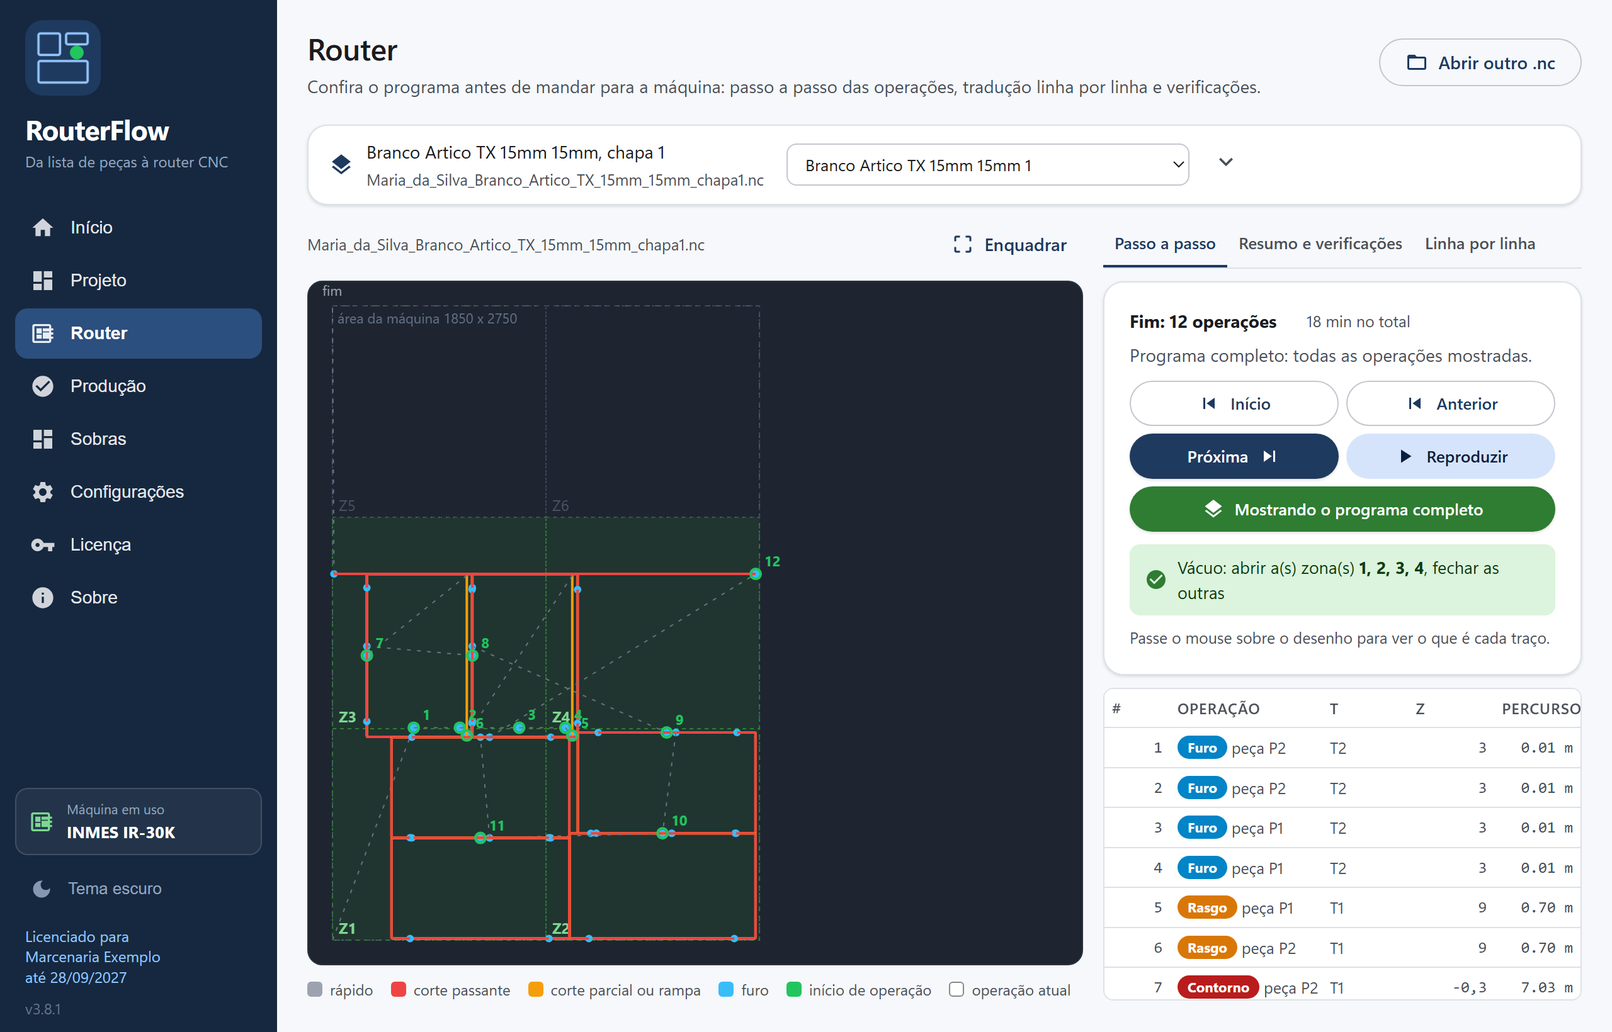
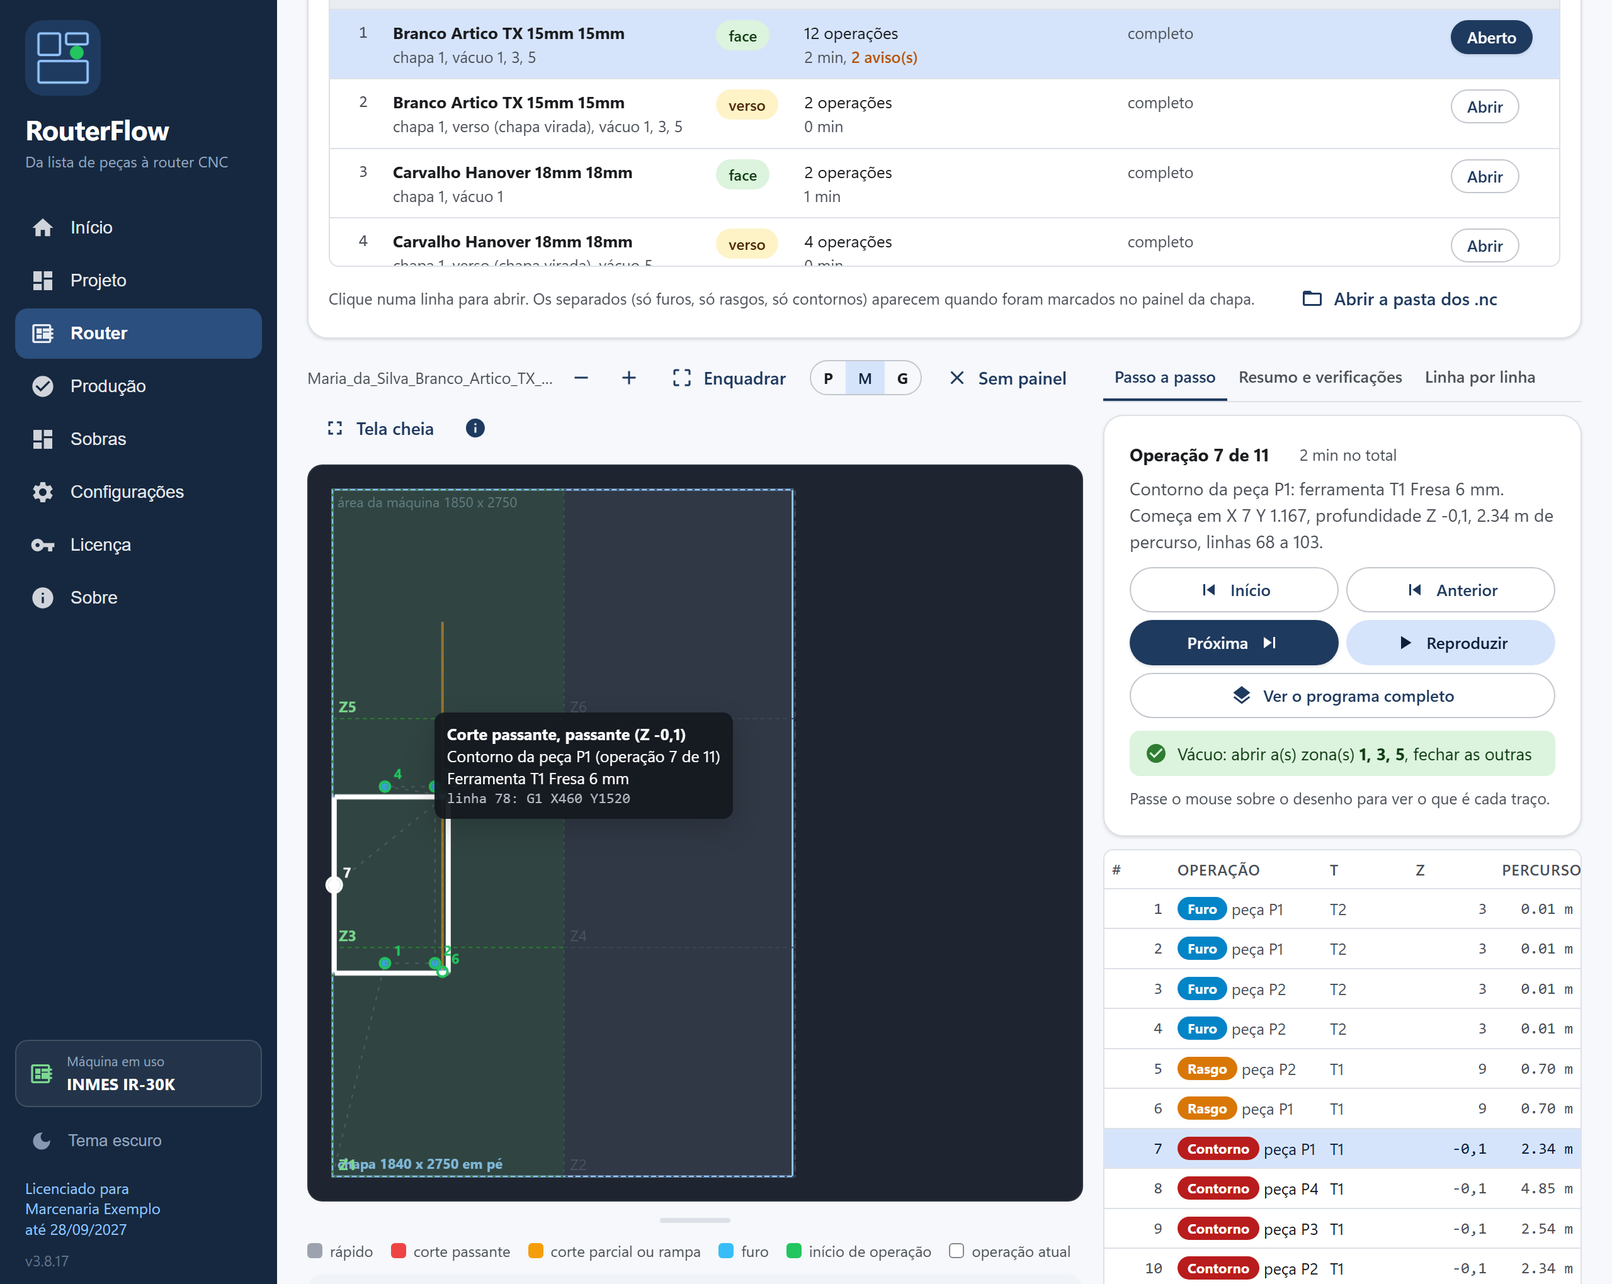
Site: novidades 3.8.18, manual com envio pela rede, imagens da Router e do Projeto refeitas

diff --git a/manual.html b/manual.html
@@ -63,7 +63,7 @@ code { background: var(--surface-low); padding: 1px 6px; border-radius: 6px; fon
   <article class="man-body">
   <div class="man-here" id="man-here"><a href="#man-toc" style="color:inherit;text-decoration:none">Você está em: <b id="man-here-t"></b></a></div>
 <h1 id="manual-do-routerflow-uso-e-configuração">Manual do RouterFlow: uso e configuração</h1>
-<p>Este manual mostra, tela por tela, como usar o RouterFlow desde a instalação até a chapa cortada, e explica cada campo das configurações: o que ele faz, quando mexer e qual valor usar. Ele vale para a versão 3.8.17 em diante.</p>
+<p>Este manual mostra, tela por tela, como usar o RouterFlow desde a instalação até a chapa cortada, e explica cada campo das configurações: o que ele faz, quando mexer e qual valor usar. Ele vale para a versão 3.8.18 em diante.</p>
 <p>O caminho no programa é sempre o mesmo, e o menu da esquerda segue essa ordem: <b>Projeto</b> (escolher os CSV e gerar as chapas), <b>Router</b> (conferir o programa antes de cortar), <b>Produção</b> (cortar chapa a chapa) e <b>Sobras</b> (o que ficou e volta para o estoque). Antes do primeiro projeto, vale gastar dez minutos em <b>Configurações</b> para o programa sair do jeito da sua máquina.</p>
 <p>Em cada tela, o botão da próxima etapa aparece maior, com a marca "PRÓXIMO PASSO" e a borda pulsando. Se estiver em dúvida sobre o que fazer, procure esse botão.</p>
 <h2 id="instalar-e-ativar">Instalar e ativar</h2>
@@ -153,7 +153,11 @@ code { background: var(--surface-low); padding: 1px 6px; border-radius: 6px; fon
 </ul>
 <h3 id="sua-router-mesa-vácuo-e-códigos-m">Sua router: mesa, vácuo e códigos M</h3>
 <figure class="shot"><img class="zoom" src="img/manual/config-maquina.png" alt="Tópico Sua router: área útil, velocidade dos rápidos, Z zero, zonas de vácuo e códigos M" loading="lazy"><figcaption>Tópico Sua router: área útil, velocidade dos rápidos, Z zero, zonas de vácuo e códigos M</figcaption></figure>
-<div class='tbl'><table class='man'><thead><tr><th>Campo</th><th>O que é</th><th>Como preencher</th></tr></thead><tbody><tr><td><b>Área útil X e Y (mm)</b></td><td>O tanto que a fresa alcança na mesa, em X e em Y</td><td>Meça ou pegue no manual da máquina. Exemplo Inmes IR-30K: 1850 no X e 2750 no Y. É isso que decide se a chapa entra em pé ou deitada, e a Router avisa em vermelho o que passa da mesa</td></tr><tr><td><b>Velocidade dos rápidos (mm/min)</b></td><td>Só para estimar o tempo dos movimentos G0</td><td>20000 é comum</td></tr><tr><td><b>Z zero na mesa de sacrifício</b></td><td>O mesmo Z zero do tópico Corte, visto daqui</td><td>Marque se o operador zera na mesa</td></tr><tr><td><b>Zonas ao longo do X e do Y</b></td><td>Quantos registros de vácuo a mesa tem em cada sentido</td><td>Mesa com 6 zonas em 2 colunas e 3 linhas: X 2, Y 3. Sem zonas: 0 e 0</td></tr><tr><td><b>Como a máquina numera</b></td><td>Se a zona 2 é a próxima no X ou no Y</td><td>Confira nos registros da mesa</td></tr><tr><td><b>Códigos M</b></td><td>Códigos próprios da máquina: ligar vácuo, exaustor, refrigeração</td><td>"Adicionar código", escreva o código (M8, por exemplo), o que ele faz e quando entra: início, fim ou troca</td></tr></tbody></table></div>
+<div class='tbl'><table class='man'><thead><tr><th>Campo</th><th>O que é</th><th>Como preencher</th></tr></thead><tbody><tr><td><b>Área útil X e Y (mm)</b></td><td>O tanto que a fresa alcança na mesa, em X e em Y</td><td>Meça ou pegue no manual da máquina. Exemplo Inmes IR-30K: 1850 no X e 2750 no Y. É isso que decide se a chapa entra em pé ou deitada, e a Router avisa em vermelho o que passa da mesa</td></tr><tr><td><b>Velocidade dos rápidos (mm/min)</b></td><td>Só para estimar o tempo dos movimentos G0</td><td>20000 é comum</td></tr><tr><td><b>Z zero na mesa de sacrifício</b></td><td>O mesmo Z zero do tópico Corte, visto daqui</td><td>Marque se o operador zera na mesa</td></tr><tr><td><b>Zonas ao longo do X e do Y</b></td><td>Quantos registros de vácuo a mesa tem em cada sentido</td><td>Mesa com 6 zonas em 2 colunas e 3 linhas: X 2, Y 3. Sem zonas: 0 e 0</td></tr><tr><td><b>Como a máquina numera</b></td><td>Se a zona 2 é a próxima no X ou no Y</td><td>Confira nos registros da mesa</td></tr><tr><td><b>Códigos M</b></td><td>Códigos próprios da máquina: ligar vácuo, exaustor, refrigeração</td><td>"Adicionar código", escreva o código (M8, por exemplo), o que ele faz e quando entra: início, fim ou troca</td></tr><tr><td><b>Envio dos programas</b></td><td>Como o .nc chega na router: pendrive, pasta de rede ou FTP</td><td>Veja abaixo</td></tr></tbody></table></div>
+<p><b>Envio dos programas para a máquina</b></p>
+<figure class="shot"><img class="zoom" src="img/manual/config-envio.png" alt="Envio dos programas: destino, pasta de rede e o botão Testar conexão" loading="lazy"><figcaption>Envio dos programas: destino, pasta de rede e o botão Testar conexão</figcaption></figure>
+<div class='tbl'><table class='man'><thead><tr><th>Destino</th><th>Quando usar</th><th>Como configurar</th></tr></thead><tbody><tr><td><b>Pendrive</b></td><td>A router não está na rede. É o padrão</td><td>Nada a configurar: a Produção pergunta a pasta na hora de copiar</td></tr><tr><td><b>Pasta de rede da máquina</b></td><td>A router tem um PC próprio (Mach3, NcStudio, controladores com Windows) ligado na mesma rede da oficina</td><td>No PC da router, compartilhe a pasta onde o controlador lê os programas (botão direito na pasta, Propriedades, Compartilhamento, com permissão de gravação). No RouterFlow, cole o caminho: \\NOME-DO-PC\programas, ou a letra da unidade mapeada. Clique em Testar conexão e Salvar</td></tr><tr><td><b>FTP do controlador</b></td><td>Controladores com servidor FTP: Syntec, Weihong, Fanuc com Ethernet e similares</td><td>IP do controlador, porta (21), usuário e senha do manual do controlador, a pasta onde os programas ficam. Testar conexão confere login e pasta. Modo passivo fica marcado</td></tr></tbody></table></div>
+<p>Com pasta de rede ou FTP configurados, a Produção envia direto: o botão de cada chapa vira "Enviar para a máquina" e o de cima, "Todos os .nc para a máquina". Cabo serial (DNC por RS-232) e envio para GRBL por USB ainda não existem; nesses casos, pendrive. O destino pertence à máquina em uso: cada perfil guarda o seu.</p>
 <p>Com as zonas cadastradas, a Router desenha a grade sobre a mesa e destaca as zonas que cada chapa usa ("abrir 1, 2 e 4, fechar as outras"), a Produção repete isso por chapa, e o programa .nc leva a lista num comentário.</p>
 <h3 id="chapas-e-folgas">Chapas e folgas</h3>
 <figure class="shot"><img class="zoom" src="img/manual/config-chapas.png" alt="Tópico Chapas e folgas: folga, margem, chapa padrão, sobra mínima, formato da etiqueta e chapa por material" loading="lazy"><figcaption>Tópico Chapas e folgas: folga, margem, chapa padrão, sobra mínima, formato da etiqueta e chapa por material</figcaption></figure>
@@ -210,14 +214,14 @@ code { background: var(--surface-low); padding: 1px 6px; border-radius: 6px; fon
 <div class='tbl'><table class='man'><thead><tr><th>Arquivo</th><th>O que é</th></tr></thead><tbody><tr><td>Cliente_Material.dxf</td><td>Todas as chapas do material num DXF só, layers CONTORNO, FURO_D5_P12, RASGO_L6_P6, TEXTO e CHAPA, na orientação e origem da mesa</td></tr><tr><td>Cliente_Material_VERSO.dxf</td><td>Usinagem da face de trás, espelhada, quando existe</td></tr><tr><td>Cliente_Material_chapa1.nc</td><td>Programa da router de cada chapa (e _VERSO.nc quando marcado)</td></tr><tr><td>etiquetas.html, mapa_chapas.html, ficha_producao.html</td><td>Impressos, abrem no navegador para imprimir com Ctrl+P</td></tr><tr><td>lista_pecas.csv, lista_fitagem.csv, ferragens.csv</td><td>Planilhas para Excel ou para o seu sistema</td></tr><tr><td>projeto.json</td><td>O projeto inteiro, para reabrir</td></tr><tr><td>relatorio.txt</td><td>Resumo em texto</td></tr></tbody></table></div>
 <h3 id="etapa-4-ajustar-no-editor-de-chapas">Etapa 4: ajustar no editor de chapas</h3>
 <figure class="shot"><img class="zoom" src="img/manual/editor.png" alt="Editor de chapas: cabeçalho com os impressos, abas por chapa, barra de zoom, o desenho e o painel de ações" loading="lazy"><figcaption>Editor de chapas: cabeçalho com os impressos, abas por chapa, barra de zoom, o desenho e o painel de ações</figcaption></figure>
-<p>No alto: o nome do projeto, quantas peças em quantas chapas, e o botão <b>Ir para a router</b> (próximo passo). Logo abaixo, <b>Etiquetas</b>, <b>Mapa das chapas</b>, <b>Ficha de produção</b> e <b>Pasta do projeto</b>. No fim do cartão ficam as sobras de cada chapa (quando marcadas) e os avisos do projeto.</p>
+<p>No alto: o nome do projeto, quantas peças em quantas chapas, e o botão <b>Ir para a router</b> (próximo passo): abre na Router o programa da chapa que está na tela; se você mexeu no encaixe ele regrava antes, e se os programas não foram gerados ele gera. Logo abaixo, <b>Etiquetas</b>, <b>Mapa das chapas</b>, <b>Ficha de produção</b> e <b>Pasta do projeto</b>. No fim do cartão ficam as sobras de cada chapa (quando marcadas) e os avisos do projeto.</p>
 <p>Uma aba por chapa, com material e número. A barra acima do desenho:</p>
 <ul>
 <li><b>- 100% +</b> zoom; <b>Ajustar</b> enquadra a chapa; <b>P, M, G</b> mudam a altura da área do desenho; <b>Tela cheia</b> usa o monitor inteiro (Esc volta); o botão <b>i</b> mostra ou esconde as dicas.</li>
 <li>Roda do mouse: zoom no ponto. Arraste o fundo: move a chapa. Duplo clique no fundo ou tecla 0: ajusta. A barra fina abaixo do desenho estica a área à vontade.</li>
 </ul>
 <p>O painel da direita:</p>
-<div class='tbl'><table class='man'><thead><tr><th>Grupo</th><th>Botão</th><th>O que faz</th></tr></thead><tbody><tr><td>Peça selecionada</td><td><b>Girar 90°</b></td><td>Gira a peça selecionada. Peça com veio avisa se o veio vai sair errado</td></tr><tr><td></td><td><b>Desfazer</b></td><td>Volta o último movimento</td></tr><tr><td></td><td><b>outra chapa</b> e <b>Mover</b></td><td>Leva a peça para a chapa escolhida na lista</td></tr><tr><td>Chapas</td><td><b>Nova chapa</b></td><td>Abre uma chapa vazia do mesmo material</td></tr><tr><td></td><td><b>Excluir chapa</b></td><td>Remove a chapa (só vazia)</td></tr><tr><td></td><td><b>Marcar área com defeito</b></td><td>Cria um retângulo vermelho (nó, lasca, borda batida); arraste até o lugar e ajuste o tamanho. Nenhuma peça entra ali</td></tr><tr><td></td><td><b>Afastar peças na folga</b></td><td>Empurra as peças mais perto que a folga até a folga certa, sem sair da chapa</td></tr><tr><td></td><td><b>Nesting automático</b></td><td>Refaz o encaixe de todas as chapas, desviando das áreas com defeito. Descarta as alterações à mão</td></tr><tr><td>Finalizar</td><td><b>Furos, Rasgos, Contornos</b></td><td>Marque para gerar, além do programa completo, um programa só com aquela operação</td></tr><tr><td></td><td><b>Aplicar e regravar</b></td><td>Regrava DXF, programas, mapa, etiquetas e ficha com as alterações. Fica como próximo passo quando você mexeu</td></tr><tr><td></td><td><b>Abrir .nc na Router</b></td><td>Regrava e já abre o programa desta chapa na Router</td></tr></tbody></table></div>
+<div class='tbl'><table class='man'><thead><tr><th>Grupo</th><th>Botão</th><th>O que faz</th></tr></thead><tbody><tr><td>Peça selecionada</td><td><b>Girar 90°</b></td><td>Gira a peça selecionada. Peça com veio avisa se o veio vai sair errado</td></tr><tr><td></td><td><b>Desfazer</b></td><td>Volta o último movimento</td></tr><tr><td></td><td><b>outra chapa</b> e <b>Mover</b></td><td>Leva a peça para a chapa escolhida na lista</td></tr><tr><td>Chapas</td><td><b>Nova chapa</b></td><td>Abre uma chapa vazia do mesmo material</td></tr><tr><td></td><td><b>Excluir chapa</b></td><td>Remove a chapa (só vazia)</td></tr><tr><td></td><td><b>Marcar área com defeito</b></td><td>Cria um retângulo vermelho (nó, lasca, borda batida); arraste até o lugar e ajuste o tamanho. Nenhuma peça entra ali</td></tr><tr><td></td><td><b>Afastar peças na folga</b></td><td>Empurra as peças mais perto que a folga até a folga certa, sem sair da chapa</td></tr><tr><td></td><td><b>Nesting automático</b></td><td>Refaz o encaixe de todas as chapas, desviando das áreas com defeito. Descarta as alterações à mão</td></tr><tr><td>Finalizar</td><td><b>Furos, Rasgos, Contornos</b></td><td>Marque para gerar, além do programa completo, um programa só com aquela operação</td></tr><tr><td></td><td><b>Aplicar e regravar</b></td><td>Regrava DXF, programas, mapa, etiquetas e ficha com as alterações. Fica como próximo passo quando você mexeu</td></tr></tbody></table></div>
 <p>Arrastar uma peça: clique nela e arraste. Ao soltar perto de outra, o encaixe mantém a folga sozinho. Peças sobrepostas ficam vermelhas e não deixam regravar; peças mais perto que a folga ficam laranja e são afastadas sozinhas ao regravar.</p>
 <p>Quando "Mostrar a sobra" está marcado, o maior retalho de cada chapa aparece tracejado em verde, com três escolhas no painel: <b>Cortar e guardar</b> (etiqueta e estoque), <b>Cortar e descartar</b> (só corta) ou <b>Deixar na chapa</b>.</p>
 <h3 id="histórico-e-avisos">Histórico e avisos</h3>
@@ -226,7 +230,7 @@ code { background: var(--surface-low); padding: 1px 6px; border-radius: 6px; fon
 <h2 id="router-conferir-o-programa-antes-de-cortar">Router: conferir o programa antes de cortar</h2>
 <figure class="shot"><img class="zoom" src="img/manual/router.png" alt="Router: lista de programas, desenho do percurso sobre a mesa com as zonas de vácuo, e o painel Passo a passo" loading="lazy"><figcaption>Router: lista de programas, desenho do percurso sobre a mesa com as zonas de vácuo, e o painel Passo a passo</figcaption></figure>
 <p>A Router abre sozinha no programa completo da primeira chapa quando você vem do projeto. <b>Abrir outro .nc</b> carrega qualquer programa, inclusive de outra origem (Aspire, por exemplo), para conferir. O botão <b>Ir para a Produção</b> é o próximo passo.</p>
-<p>A lista de programas mostra material, chapa, face (frente ou verso) e as zonas de vácuo. A seleção rápida troca de programa sem abrir a lista.</p>
+<p>A lista de programas vem aberta, com material, chapa, face (frente ou verso), operações e as zonas de vácuo: clique numa linha para abrir. A seta no canto recolhe a lista, e a seleção rápida no título troca de programa sem abrir.</p>
 <p>O desenho: a mesa com a área útil tracejada, a chapa como foi gerada (deitada ou em pé; vermelha se não cabe), a grade de vácuo com as zonas a abrir em verde, e o percurso colorido pela legenda: cinza rápido, vermelho corte passante, laranja rampa ou corte parcial, azul furo, verde início de operação, branco a operação atual. Passe o mouse sobre um traço para ver a linha do programa. <b>Enquadrar</b>, zoom, <b>P M G</b>, <b>Sem painel</b> e <b>Tela cheia</b> funcionam como no editor.</p>
 <p>O painel da direita tem três abas:</p>
 <ul>
@@ -247,6 +251,7 @@ code { background: var(--surface-low); padding: 1px 6px; border-radius: 6px; fon
 <ul>
 <li><b>Ver na Router</b> abre aquele programa para conferir.</li>
 <li><b>Pendrive</b> copia só aquele programa para o pendrive. <b>Todos os .nc para o pendrive</b> (no alto, próximo passo) copia todos.</li>
+<li><b>Envio pela rede</b>: se em Configurações, Sua router, o destino dos programas for uma pasta de rede ou o FTP do controlador, esses botões viram <b>Enviar para a máquina</b> e <b>Todos os .nc para a máquina</b>, e o programa vai direto, sem pendrive. Uma linha no alto diz para onde.</li>
 <li><b>Marcar feita</b> registra a chapa cortada; a barra de progresso e a data ficam gravadas com o projeto, então dá para fechar e continuar no dia seguinte.</li>
 <li><b>Tela grande</b> aumenta tudo para ler de longe.</li>
 </ul>

diff --git a/index.html b/index.html
@@ -223,7 +223,7 @@
     <div><h3>Atualização automática</h3><p>Cada versão nova é baixada e instalada pelo próprio programa. A licença é confirmada pela internet de vez em quando; na hora de cortar, não precisa de conexão.</p></div>
   </div>
   <div class="two">
-    <figure class="shot"><img class="zoom" src="img/app-router.png" alt="Tela Router do RouterFlow: percurso da fresa desenhado sobre a mesa, zonas de vácuo e lista de furos, rasgos e contornos" width="2560" height="1640" loading="lazy"><figcaption>Router: cada operação sobre a mesa, com as zonas de vácuo a abrir e a lista de furos, rasgos e contornos.</figcaption></figure>
+    <figure class="shot"><img class="zoom" src="img/app-router.png" alt="Tela Router do RouterFlow: percurso da fresa desenhado sobre a mesa, zonas de vácuo e lista de furos, rasgos e contornos" width="2560" height="2040" loading="lazy"><figcaption>Router: cada operação sobre a mesa, com as zonas de vácuo a abrir e a lista de furos, rasgos e contornos.</figcaption></figure>
     <figure class="shot"><img class="zoom" src="img/app-producao.png" alt="Tela Produção do RouterFlow: chapas na ordem de corte com o programa de cada uma, botão do pendrive e marcação de feita" width="2560" height="1640" loading="lazy"><figcaption>Produção: as chapas na ordem de corte, o programa de cada uma, pendrive e a marcação de feita.</figcaption></figure>
     <figure class="shot"><img class="zoom" src="img/app-sobras.png" alt="Tela Sobras do RouterFlow: estoque de retalhos por material com medidas, situação e origem" width="2560" height="1640" loading="lazy"><figcaption>Sobras: o estoque de retalhos, o que está disponível e o que já foi usado em projetos.</figcaption></figure>
     <figure class="shot"><img class="zoom" src="img/app-config.png" alt="Configurações do RouterFlow: máquina em uso, linha do tempo por onde começar e tópicos em acordeão" width="2560" height="1640" loading="lazy"><figcaption>Configurações: a máquina em uso, por onde começar e um tópico por vez.</figcaption></figure>
@@ -287,7 +287,8 @@
   <p class="sub">O que chegou em cada atualização, da mais nova para a mais antiga. Quem já tem o RouterFlow recebe tudo isso sozinho.</p>
   <div class="news-list">
     <!-- novidades:inicio -->
-    <details open><summary><b>Versão 3.8.17</b><span class="news-t">Produção com histórico: continue de onde parou</span><span class="news-d">29/09/2026</span></summary><ul><li>A tela Produção agora lista os projetos gerados neste computador com o andamento de cada um: quantas chapas já foram feitas e se está concluído, em andamento ou nem começou. &quot;Abrir na Produção&quot; carrega o projeto ali mesmo, sem passar pelo Projeto.</li><li>Na tela Projeto, o histórico passou a vir antes dos avisos.</li></ul></details>
+    <details open><summary><b>Versão 3.8.18</b><span class="news-t">Programa direto para a máquina pela rede</span><span class="news-d">29/09/2026</span></summary><ul><li>Em Configurações, Sua router, o novo bloco &quot;Envio dos programas para a máquina&quot;: além do pendrive, dá para mandar o .nc para uma pasta de rede do PC da router ou para o FTP do controlador (Syntec, Weihong, Fanuc com Ethernet). Tem botão Testar conexão. Na Produção, os botões viram &quot;Enviar para a máquina&quot;.</li><li>No Projeto ficou um botão só para a Router, no alto do resultado: ele regrava se você mexeu no encaixe, gera o .nc se faltar e abre a chapa que está na tela. O botão de baixo do painel saiu.</li><li>Na Router, a lista de programas do projeto vem aberta. A seta recolhe quando quiser mais espaço.</li></ul></details>
+    <details><summary><b>Versão 3.8.17</b><span class="news-t">Produção com histórico: continue de onde parou</span><span class="news-d">29/09/2026</span></summary><ul><li>A tela Produção agora lista os projetos gerados neste computador com o andamento de cada um: quantas chapas já foram feitas e se está concluído, em andamento ou nem começou. &quot;Abrir na Produção&quot; carrega o projeto ali mesmo, sem passar pelo Projeto.</li><li>Na tela Projeto, o histórico passou a vir antes dos avisos.</li></ul></details>
     <details><summary><b>Versão 3.8.16</b><span class="news-t">Tela Projeto mais limpa depois de gerar</span><span class="news-d">29/09/2026</span></summary><ul><li>Gerou as chapas? As etapas 1 e 2 se recolhem numa linha só: arquivos, máquina, orientação, origem e opções. Quer mudar algo? Clique em &quot;Editar e gerar de novo&quot; e tudo abre outra vez.</li><li>As listas de arquivos DXF e de programas .nc saíram do resultado. Uma linha diz quantos foram gravados e onde. Os programas continuam na Router (conferir) e na Produção (pendrive e chapa feita), que é onde você usa eles.</li></ul></details>
     <details><summary><b>Versão 3.8.15</b><span class="news-t">Encaixe em faixa: a chapa rende mais e a sobra fica inteira</span><span class="news-d">29/09/2026</span></summary><ul><li>As peças agora enchem uma faixa ao longo do lado comprido da chapa antes de alargar: peça só vai para a fileira seguinte quando não cabe mais na atual. O que sobra é uma tira inteira, de ponta a ponta.</li><li>Peça sem veio gira 90 graus quando é assim que ela cabe no fim da fileira. A orientação Em pé ou Deitadas continua valendo, mas não custa mais espaço na chapa.</li><li>Entre as estratégias de encaixe, fica a que ocupa a faixa mais estreita. Vale para cada chapa, para o Nesting automático do editor e para &quot;Unir tudo numa chapa só&quot;.</li></ul></details>
     <details><summary><b>Versão 3.8.14</b><span class="news-t">Padrão de fábrica: corte de uma vez, como na máquina</span><span class="news-d">29/09/2026</span></summary><ul><li>Máquina nova já nasce cortando como a router faz de verdade: uma passada só até 0,1 mm na mesa (passe 20), rampa curta de 5 mm, sem abas, altura segura 15, fresa de 6 mm a 11000 de avanço e 4000 de mergulho.</li><li>Quem já tem máquina cadastrada não muda nada sozinho: os valores de Ferramentas e Corte continuam os seus. Para adotar os novos, ajuste em Configurações ou use Restaurar padrões.</li></ul></details>
